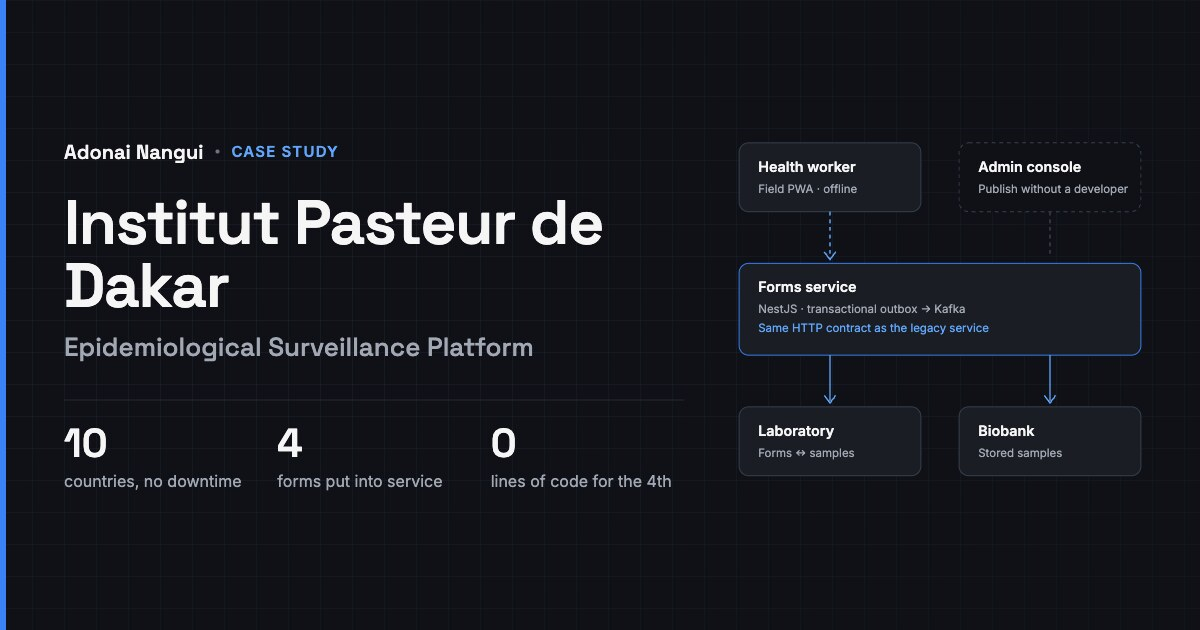
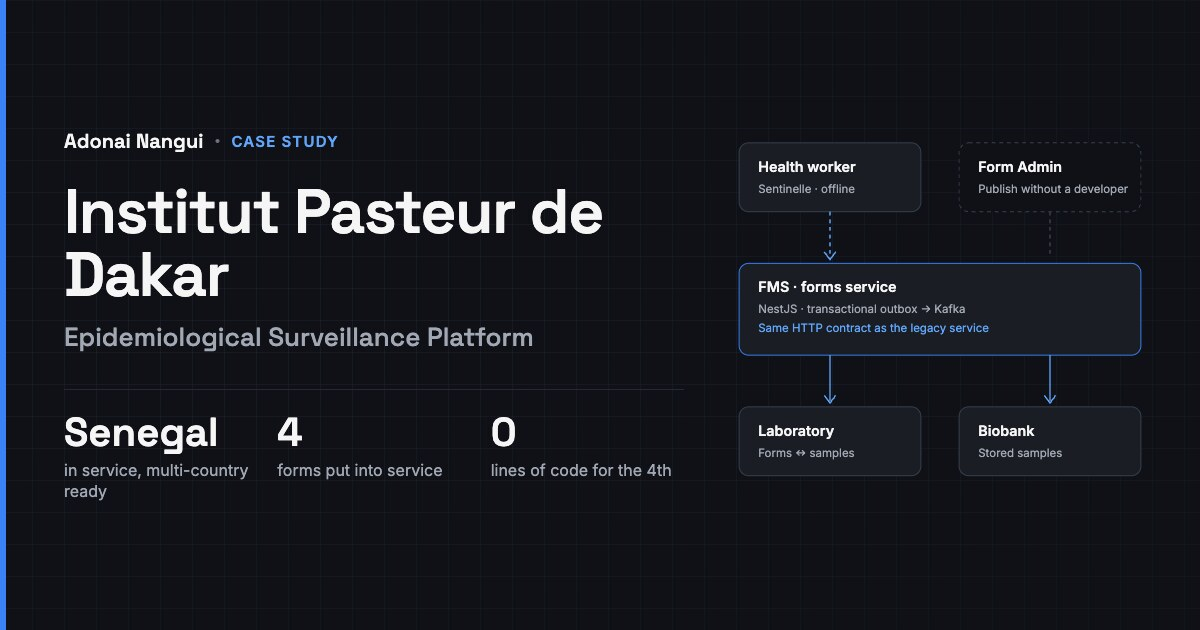
fix(content): correct the Institut Pasteur deployment scope and contributions
- The forms part is in service in Senegal and ready for the other countries
  where Sentinelle is deployed; it was presented as running in ten countries.
  The existing Sentinelle platform is described as used in several countries,
  without a figure
- Key figures: "Senegal, in service, multi-country ready" replaces
  "10 countries, no downtime" (home card, project page, share images), with
  non-breaking hyphens so the label never wraps at the hyphen
- Context: Sentinelle was already deployed on arrival; FMS (Form Management
  Service), Form Admin and the shared component library are named as the
  pieces added during the mission, in the case study, the hero summary, the
  experience entry and the data flow diagram

diff --git a/src/i18n/translations.ts b/src/i18n/translations.ts
@@ -138,11 +138,11 @@ export const translations: Translations = {
       // Institut Pasteur de Dakar
       'pasteur.role': 'Ingénieur logiciel full-stack - Consultant',
       'pasteur.period': 'Mar 2026 - Août 2026',
-      'pasteur.impact1': 'Remplacement progressif, route par route et sans interruption, du service de formulaires d\'un programme de surveillance sanitaire en service dans 10 pays',
-      'pasteur.impact2': 'Service NestJS en architecture hexagonale : messagerie Kafka fiable par transactional outbox et sécurité Keycloak multi-realm',
-      'pasteur.impact3': 'Bibliothèque de 19 composants Angular partagée par trois applications et console d\'administration des formulaires',
-      'pasteur.impact4': 'Application terrain offline-first avec un moteur de rendu de formulaires sur mesure (environ 4 400 lignes)',
-      'pasteur.impact5': 'Fiche de surveillance de la diphtérie publiée pendant l\'épidémie via la console, sans code ni redéploiement',
+      'pasteur.impact1': 'Remplacement progressif, route par route et sans interruption, du service de formulaires d\'un programme de surveillance sanitaire, en service au Sénégal et prêt pour les autres pays où Sentinelle est déployée',
+      'pasteur.impact2': 'Conception de FMS (Form Management Service) en NestJS, architecture hexagonale : messagerie Kafka fiable par transactional outbox et sécurité Keycloak multi-realm',
+      'pasteur.impact3': 'Conception de Form Admin, l\'application d\'administration des formulaires, et d\'une librairie de 19 composants Angular partagés par trois applications',
+      'pasteur.impact4': 'Contribution à Sentinelle, l\'application terrain offline-first, avec un moteur de rendu de formulaires sur mesure (environ 4 400 lignes)',
+      'pasteur.impact5': 'Fiche de surveillance de la diphtérie publiée pendant l\'épidémie via Form Admin, sans code ni redéploiement',
       // Djoubo
       'djoubo.role': 'Tech Lead',
       'djoubo.period': 'Jan 2025 - Déc 2025',
@@ -194,11 +194,11 @@ export const translations: Translations = {
       // Institut Pasteur de Dakar
       'pasteur.role': 'Full-Stack Software Engineer - Consultant',
       'pasteur.period': 'Mar 2026 - Aug 2026',
-      'pasteur.impact1': 'Progressive, route-by-route replacement with no downtime of the forms service of a health surveillance programme running in 10 countries',
-      'pasteur.impact2': 'NestJS service with hexagonal architecture: reliable Kafka messaging through a transactional outbox and multi-realm Keycloak security',
-      'pasteur.impact3': 'Library of 19 Angular components shared by three applications, plus the forms administration console',
-      'pasteur.impact4': 'Offline-first field application with a custom form rendering engine (roughly 4,400 lines)',
-      'pasteur.impact5': 'Diphtheria surveillance form published during the outbreak through the console, with no code and no redeployment',
+      'pasteur.impact1': 'Progressive, route-by-route replacement with no downtime of the forms service of a health surveillance programme, in service in Senegal and ready for the other countries where Sentinelle is deployed',
+      'pasteur.impact2': 'Design of FMS (Form Management Service) in NestJS with hexagonal architecture: reliable Kafka messaging through a transactional outbox and multi-realm Keycloak security',
+      'pasteur.impact3': 'Design of Form Admin, the forms administration application, and of a library of 19 Angular components shared by three applications',
+      'pasteur.impact4': 'Contribution to Sentinelle, the offline-first field application, with a custom form rendering engine (roughly 4,400 lines)',
+      'pasteur.impact5': 'Diphtheria surveillance form published during the outbreak through Form Admin, with no code and no redeployment',
       // Djoubo
       'djoubo.role': 'Tech Lead',
       'djoubo.period': 'Jan 2025 - Dec 2025',

diff --git a/src/content/projects/institut-pasteur-dakar.fr.md b/src/content/projects/institut-pasteur-dakar.fr.md
@@ -2,8 +2,8 @@
 slug: "institut-pasteur-dakar-fr"
 title_fr: "Institut Pasteur de Dakar - Plateforme de surveillance épidémiologique"
 title_en: "Institut Pasteur de Dakar - Epidemiological Surveillance Platform"
-description_fr: "Conception et remplacement progressif du service de formulaires d'un programme national de surveillance sanitaire, en service au Sénégal et dans neuf autres pays."
-description_en: "Design and progressive replacement of the forms service of a national health surveillance programme, running in Senegal and nine other countries."
+description_fr: "Conception et remplacement progressif du service de formulaires d'un programme national de surveillance sanitaire, en service au Sénégal et prêt pour les autres pays où l'application Sentinelle est déployée."
+description_en: "Design and progressive replacement of the forms service of a national health surveillance programme, in service in Senegal and ready for the other countries where the Sentinelle app is deployed."
 stack: ["NestJS", "Angular", "Kafka", "PostgreSQL", "Keycloak", "Drizzle ORM", "Fastify", "TypeScript", "IndexedDB", "Storybook", "Kubernetes"]
 featured: true
 role_fr: "Ingénieur logiciel full-stack - Consultant"
@@ -12,25 +12,25 @@ period_fr: "Mars - Août 2026"
 period_en: "March - August 2026"
 ogImage: "/images/projects/institut-pasteur-dakar-og-fr.jpg"
 highlights_fr:
-  - value: "10"
-    label: "pays, sans interruption"
+  - value: "Sénégal"
+    label: "en service, prêt multi‑pays"
   - value: "4"
     label: "fiches mises en service"
   - value: "0"
     label: "ligne de code pour la 4ᵉ"
 highlights_en:
-  - value: "10"
-    label: "countries, no downtime"
+  - value: "Senegal"
+    label: "in service, multi‑country ready"
   - value: "4"
     label: "forms put into service"
   - value: "0"
     label: "lines of code for the 4th"
 contributions_fr:
-  - title: "Service de gestion des formulaires"
+  - title: "Service de gestion des formulaires (FMS)"
     role: "Conception et développement"
     share: "≈ 98 % des commits"
     stack: ["NestJS 10", "Fastify", "TypeScript", "Drizzle ORM", "PostgreSQL", "Kafka", "Keycloak", "Jest"]
-    summary: "Le cœur de la plateforme, écrit pour se substituer au service historique route par route."
+    summary: "FMS (Form Management Service), le cœur de la plateforme, écrit pour se substituer au service historique route par route."
     details:
       - title: "Migration progressive à contrat constant."
         text: " Le nouveau service reproduit exactement le contrat HTTP de l'ancien. Chaque route peut basculer indépendamment, sans qu'aucune application cliente ait à changer, et sans fenêtre d'interruption."
@@ -44,20 +44,20 @@ contributions_fr:
         text: " Un nouveau formulaire alimente le circuit des prélèvements dès que son schéma déclare le bloc correspondant. Plus de liste codée en dur, plus de redéploiement backend pour publier une fiche."
       - title: "Intégrations"
         text: " avec les services patients, analyses et biobanque, référentiels résolus et mis en cache, stockage objet MinIO, synchronisation avec le système de formulaires existant."
-  - title: "Bibliothèque de composants Angular"
+  - title: "Librairie de composants Angular partagés"
     role: "Conception et maintenance"
     share: "≈ 92 % des commits"
     stack: ["Angular", "PrimeNG", "ng-packagr", "Storybook", "jetons de design CSS", "publication par tags Git"]
     summary: "Dix-neuf composants partagés par trois applications, construits selon une stratégie « kit-first » : extraire plutôt que dupliquer. Wizard et navigation par sous-étapes, grilles éditables, champs texte, sélection, chips, tuiles, compteur, date et heure, téléversement, géolocalisation, enregistrement automatique."
-  - title: "Console d'administration des formulaires"
+  - title: "Console d'administration des formulaires (Form Admin)"
     role: "Conception et développement"
     share: "≈ 98 % des commits"
-    summary: "Application Angular de conception, versionnement, publication et gestion des accès aux formulaires. C'est elle qui rend le reste utilisable sans développeur."
-  - title: "Application de saisie terrain"
+    summary: "Form Admin, l'application Angular de conception, versionnement, publication et gestion des accès aux formulaires. C'est elle qui rend le reste utilisable sans développeur."
+  - title: "Application de saisie terrain (Sentinelle)"
     role: "Contributeur majeur"
     share: "≈ 24 % des commits"
     stack: ["Angular standalone", "PrimeNG", "Dexie / IndexedDB", "Keycloak", "service worker"]
-    summary: "Progressive Web App utilisée par les agents de santé."
+    summary: "Sentinelle, la Progressive Web App utilisée par les agents de santé, déjà en production à mon arrivée."
     details:
       - title: "Moteur de rendu de formulaires sur mesure"
         text: ", environ 4 400 lignes, sans dépendance à la bibliothèque tierce utilisée jusque-là : wizard, champs conditionnels, grilles, validation par étape, préremplissage."
@@ -73,7 +73,7 @@ contributions_fr:
     summary: "Overlays par environnement, chaînes CI/CD, gestion de la configuration et des secrets. Diagnostic et remise en état d'un environnement bloqué, avec la correction portée dans l'infrastructure-as-code plutôt qu'appliquée à la main."
 decisions_fr:
   - title: "Reproduire à l'identique le contrat HTTP du service historique"
-    text: "Cela oblige à hériter de choix d'API qu'on n'aurait pas faits soi-même, et à les porter dans une architecture neuve. En échange, la bascule se fait route par route, chaque étape est réversible, et aucune application cliente dans les dix pays n'a eu à être modifiée. Sur un système de surveillance sanitaire, la réversibilité vaut plus que l'élégance."
+    text: "Cela oblige à hériter de choix d'API qu'on n'aurait pas faits soi-même, et à les porter dans une architecture neuve. En échange, la bascule se fait route par route, chaque étape est réversible, et aucune application cliente n'a eu à être modifiée. Sur un système de surveillance sanitaire, la réversibilité vaut plus que l'élégance."
   - title: "Outbox transactionnel plutôt que publication directe vers Kafka"
     text: "Un worker de drainage et une purge de plus à exploiter, contre la garantie qu'une indisponibilité du broker ne remonte jamais jusqu'à l'agent. Quand la saisie a lieu sur le terrain, un échec d'envoi ne se rattrape pas : la personne est repartie."
   - title: "Doubles en mémoire plutôt que conteneurs de test"
@@ -87,7 +87,7 @@ decisions_fr:
   - title: "Corriger un environnement bloqué dans l'infrastructure-as-code"
     text: "Une remise en route manuelle aurait été plus rapide et se serait redéfaite au déploiement suivant."
 deliveries_fr:
-  intro: "Un moteur de formulaires ne vaut que par ce qu'il accepte de porter. Quatre fiches ont été mises en service, de natures délibérément éloignées."
+  intro: "Un moteur de formulaires ne vaut que par ce qu'il accepte de porter. Quatre fiches ont été mises en service au Sénégal, de natures délibérément éloignées."
   items:
     - title: "SARI — surveillance des infections respiratoires aiguës sévères"
       text: "Circuit hospitalier, avec rattachement des prélèvements et remontée vers le laboratoire puis la biobanque."
@@ -111,15 +111,17 @@ L'Institut Pasteur de Dakar est l'un des principaux acteurs de santé publique d
 
 Concrètement : des agents de santé recueillent sur le terrain des fiches épidémiologiques — infections respiratoires, surveillance communautaire, décès maternels et néonatals, diphtérie — et les prélèvements associés remontent vers le laboratoire puis vers la biobanque. La chaîne va du carnet de l'agent jusqu'à l'échantillon conservé.
 
+À mon arrivée, l'application Sentinelle était déjà déployée. J'ai ajouté les briques qui rendent les fiches configurables sans développeur : FMS (Form Management Service), le backend de gestion des formulaires ; Form Admin, l'application d'administration des formulaires ; et une librairie de composants partagés. Les fiches sont aujourd'hui en service au Sénégal ; la solution est livrée et configurée pour être utilisée dans les autres pays où Sentinelle est déployée.
+
 ## Le problème
 
 Le système reposait sur un service Django historique dans lequel chaque nouvelle fiche impliquait du code : une liste de types en dur, et un redéploiement du backend pour publier un formulaire. Une temporalité de développement logiciel imposée à un besoin de santé publique.
 
-La difficulté n'était pas de concevoir un meilleur système. Elle était de le substituer à un système déjà en service dans dix pays, sans interruption. On n'arrête pas une chaîne de surveillance sanitaire le temps d'une migration.
+La difficulté n'était pas de concevoir un meilleur système. Elle était de le substituer à un système déjà en production, utilisé dans plusieurs pays, sans interruption. On n'arrête pas une chaîne de surveillance sanitaire le temps d'une migration.
 
 ## Les contraintes
 
-**Pas d'interruption possible.** Des applications clientes en production, dans dix pays, dépendaient du service existant.
+**Pas d'interruption possible.** Des applications clientes en production, dans plusieurs pays, dépendaient du service existant.
 
 **Des environnements de déploiement hétérogènes.** Les pays ne sont pas tous outillés de la même manière. Une même livraison doit atteindre des cibles de nature différente.
 

diff --git a/src/content/projects/institut-pasteur-dakar.en.md b/src/content/projects/institut-pasteur-dakar.en.md
@@ -2,8 +2,8 @@
 slug: "institut-pasteur-dakar-en"
 title_fr: "Institut Pasteur de Dakar - Plateforme de surveillance épidémiologique"
 title_en: "Institut Pasteur de Dakar - Epidemiological Surveillance Platform"
-description_fr: "Conception et remplacement progressif du service de formulaires d'un programme national de surveillance sanitaire, en service au Sénégal et dans neuf autres pays."
-description_en: "Design and progressive replacement of the forms service of a national health surveillance programme, running in Senegal and nine other countries."
+description_fr: "Conception et remplacement progressif du service de formulaires d'un programme national de surveillance sanitaire, en service au Sénégal et prêt pour les autres pays où l'application Sentinelle est déployée."
+description_en: "Design and progressive replacement of the forms service of a national health surveillance programme, in service in Senegal and ready for the other countries where the Sentinelle app is deployed."
 stack: ["NestJS", "Angular", "Kafka", "PostgreSQL", "Keycloak", "Drizzle ORM", "Fastify", "TypeScript", "IndexedDB", "Storybook", "Kubernetes"]
 featured: true
 role_fr: "Ingénieur logiciel full-stack - Consultant"
@@ -12,25 +12,25 @@ period_fr: "Mars - Août 2026"
 period_en: "March - August 2026"
 ogImage: "/images/projects/institut-pasteur-dakar-og-en.jpg"
 highlights_fr:
-  - value: "10"
-    label: "pays, sans interruption"
+  - value: "Sénégal"
+    label: "en service, prêt multi‑pays"
   - value: "4"
     label: "fiches mises en service"
   - value: "0"
     label: "ligne de code pour la 4ᵉ"
 highlights_en:
-  - value: "10"
-    label: "countries, no downtime"
+  - value: "Senegal"
+    label: "in service, multi‑country ready"
   - value: "4"
     label: "forms put into service"
   - value: "0"
     label: "lines of code for the 4th"
 contributions_en:
-  - title: "Forms management service"
+  - title: "Forms management service (FMS)"
     role: "Design and development"
     share: "≈ 98% of commits"
     stack: ["NestJS 10", "Fastify", "TypeScript", "Drizzle ORM", "PostgreSQL", "Kafka", "Keycloak", "Jest"]
-    summary: "The core of the platform, written to replace the legacy service one route at a time."
+    summary: "FMS (Form Management Service), the core of the platform, written to replace the legacy service one route at a time."
     details:
       - title: "Progressive migration at constant contract."
         text: " The new service reproduces the legacy HTTP contract exactly. Each route can switch over independently, with no change required in any client application and no downtime window."
@@ -44,20 +44,20 @@ contributions_en:
         text: " A new form feeds the sample circuit as soon as its schema declares the corresponding block. No hard-coded list, no backend redeployment to publish a form."
       - title: "Integrations"
         text: " with the patient, analysis, and biobank services, resolved and cached reference data, MinIO object storage, and synchronisation with the existing forms system."
-  - title: "Angular component library"
+  - title: "Shared Angular component library"
     role: "Design and maintenance"
     share: "≈ 92% of commits"
     stack: ["Angular", "PrimeNG", "ng-packagr", "Storybook", "CSS design tokens", "released via Git tags"]
     summary: "Nineteen components shared by three applications, built on a kit-first strategy: extract rather than duplicate. Wizard and sub-step navigation, editable grids, text, select, chip, tile, counter, date and time fields, upload, geolocation, autosave."
-  - title: "Forms administration console"
+  - title: "Forms administration console (Form Admin)"
     role: "Design and development"
     share: "≈ 98% of commits"
-    summary: "An Angular application for designing, versioning, publishing, and managing access to forms. It is what makes the rest usable without a developer."
-  - title: "Field data entry application"
+    summary: "Form Admin, the Angular application for designing, versioning, publishing, and managing access to forms. It is what makes the rest usable without a developer."
+  - title: "Field data entry application (Sentinelle)"
     role: "Major contributor"
     share: "≈ 24% of commits"
     stack: ["Angular standalone", "PrimeNG", "Dexie / IndexedDB", "Keycloak", "service worker"]
-    summary: "A Progressive Web App used by health workers."
+    summary: "Sentinelle, the Progressive Web App used by health workers, already in production when I joined."
     details:
       - title: "Custom form rendering engine"
         text: ", roughly 4,400 lines, with no dependency on the third-party library used until then: wizard, conditional fields, grids, per-step validation, prefilling."
@@ -73,7 +73,7 @@ contributions_en:
     summary: "Per-environment overlays, CI/CD pipelines, configuration and secrets management. Diagnosis and recovery of a blocked environment, with the fix carried into infrastructure-as-code rather than applied by hand."
 decisions_en:
   - title: "Reproducing the legacy HTTP contract exactly"
-    text: "This means inheriting API choices you would not have made yourself, and carrying them into a new architecture. In exchange, the switchover happens route by route, every step is reversible, and no client application across the ten countries had to change. On a health surveillance system, reversibility is worth more than elegance."
+    text: "This means inheriting API choices you would not have made yourself, and carrying them into a new architecture. In exchange, the switchover happens route by route, every step is reversible, and no client application had to change. On a health surveillance system, reversibility is worth more than elegance."
   - title: "Transactional outbox rather than publishing straight to Kafka"
     text: "One more worker and one more purge to operate, against the guarantee that a broker outage never reaches the field worker. When data entry happens in the field, a failed submission cannot be retried: the person has already left."
   - title: "In-memory doubles rather than test containers"
@@ -87,7 +87,7 @@ decisions_en:
   - title: "Fixing a blocked environment in infrastructure-as-code"
     text: "Bringing it back by hand would have been faster and would have undone itself at the next deployment."
 deliveries_en:
-  intro: "A forms engine is only worth what it is willing to carry. Four forms went into service, deliberately different in nature."
+  intro: "A forms engine is only worth what it is willing to carry. Four forms went into service in Senegal, deliberately different in nature."
   items:
     - title: "SARI — surveillance of severe acute respiratory infections"
       text: "A hospital circuit, with specimens attached and passed on to the laboratory and then the biobank."
@@ -111,15 +111,17 @@ Institut Pasteur de Dakar is one of West Africa's leading public health institut
 
 In practice: health workers collect epidemiological forms in the field — respiratory infections, community surveillance, maternal and neonatal deaths, diphtheria — and the associated samples travel on to the laboratory and then the biobank. The chain runs from the field worker's notebook to the stored specimen.
 
+When I joined, the Sentinelle app was already deployed. I added the building blocks that make forms configurable without a developer: FMS (Form Management Service), the forms management backend; Form Admin, the forms administration application; and a shared component library. The forms are in service in Senegal today; the solution is delivered and configured to be used in the other countries where Sentinelle is deployed.
+
 ## The problem
 
 The system relied on a legacy Django service in which every new form meant writing code: a hard-coded list of types, and a backend redeployment to publish a form. A software delivery timeline imposed on a public health need.
 
-The difficulty was not designing a better system. It was substituting it for one already running in ten countries, without interruption. You do not take a health surveillance chain offline for the duration of a migration.
+The difficulty was not designing a better system. It was substituting it for one already in production, used in several countries, without interruption. You do not take a health surveillance chain offline for the duration of a migration.
 
 ## The constraints
 
-**No downtime available.** Client applications in production, across ten countries, depended on the existing service.
+**No downtime available.** Client applications in production, across several countries, depended on the existing service.
 
 **Heterogeneous deployment environments.** Countries are not all equally equipped. A single release has to reach targets of different kinds.
 
